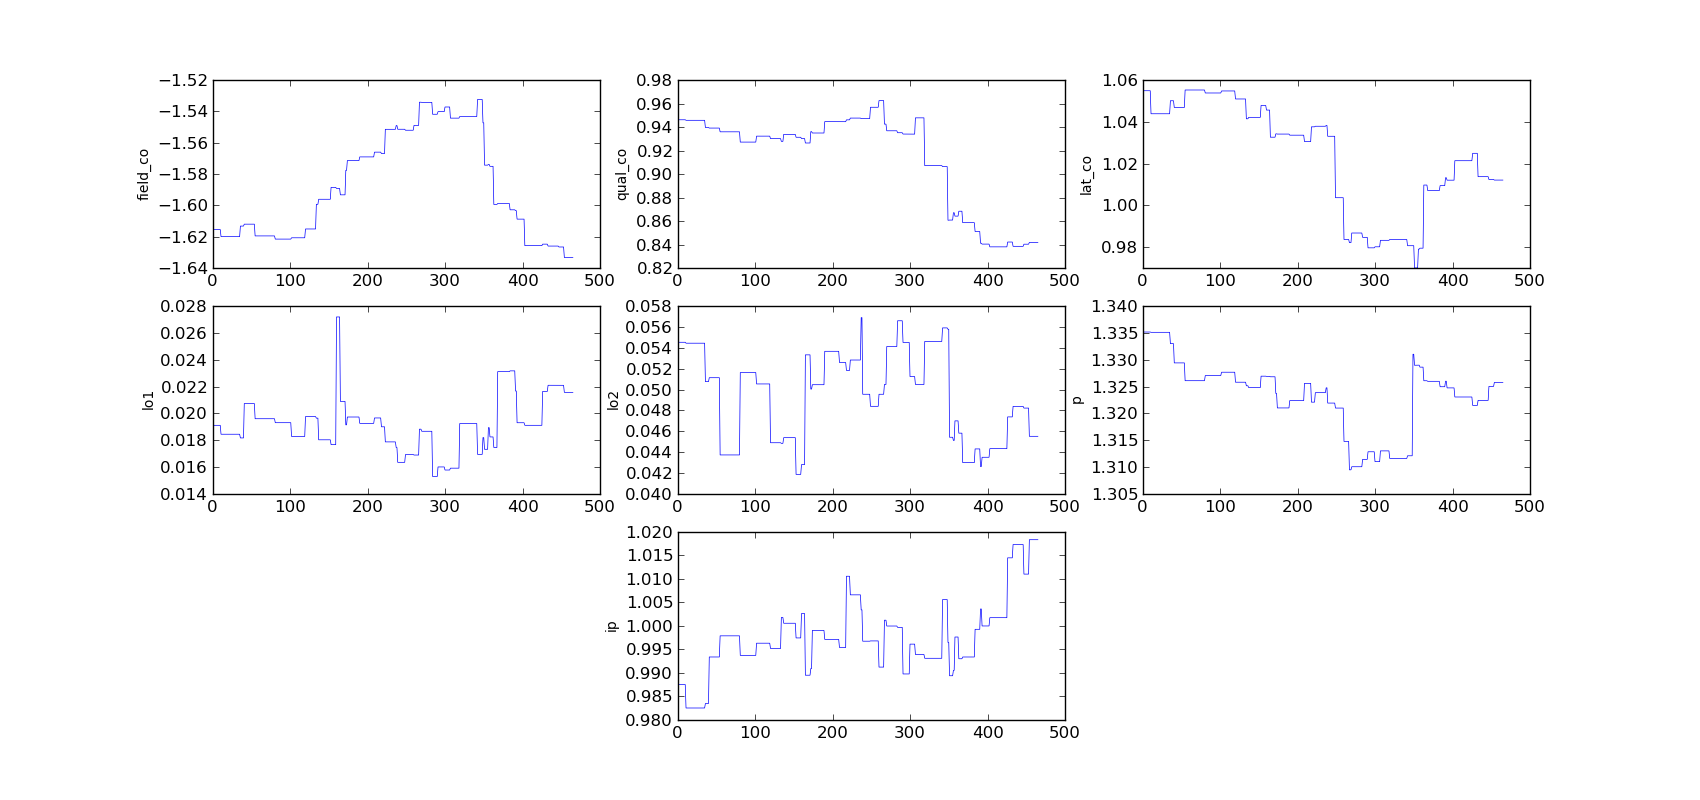
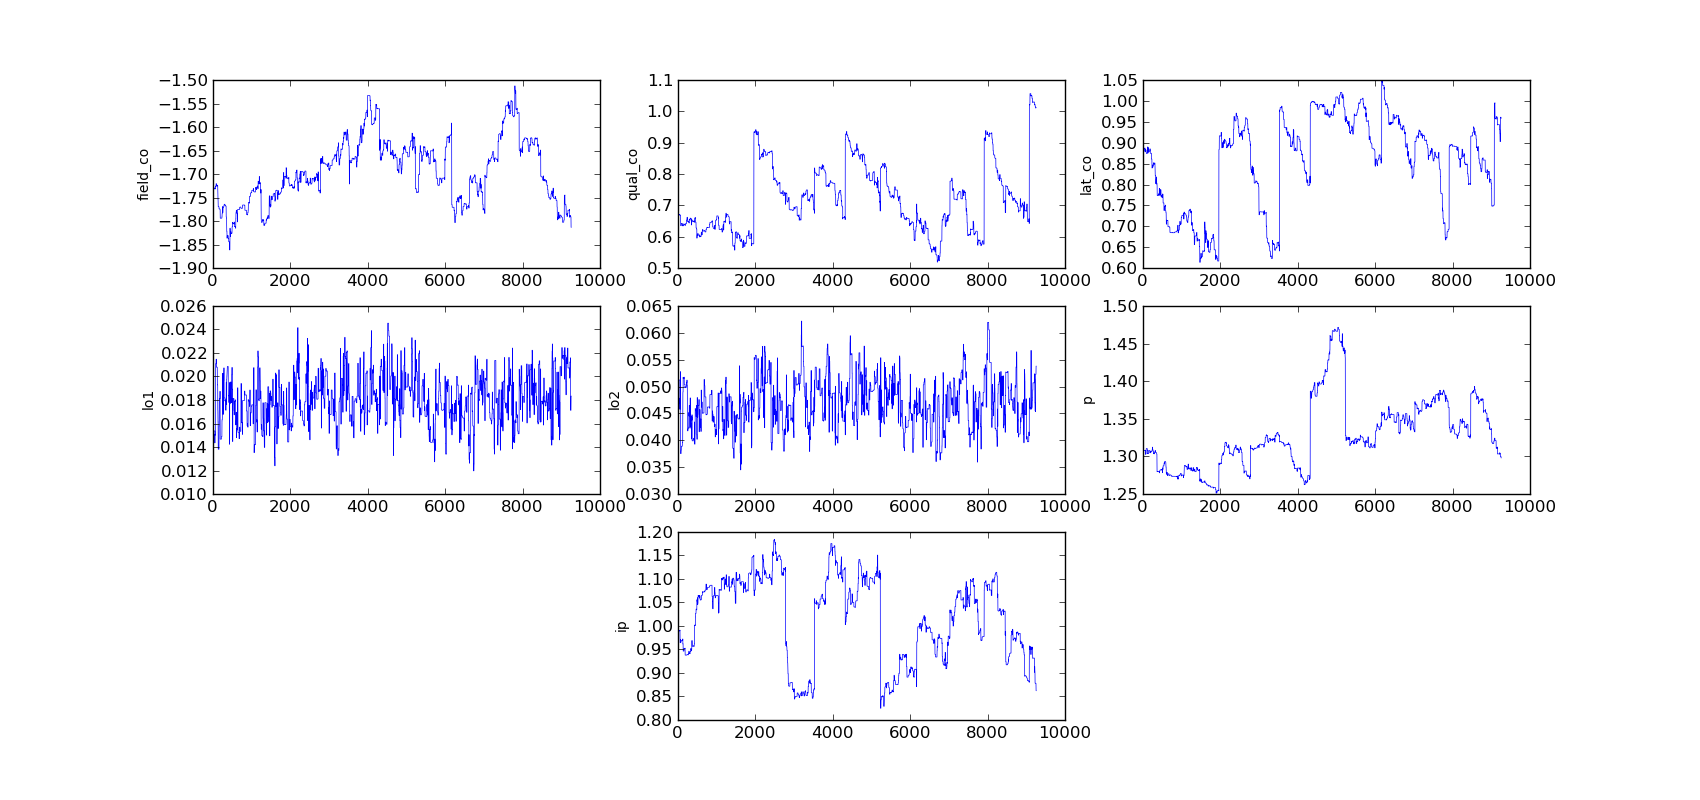
added a time trend to citing prob, and also insulated jump_size mistakes

diff --git a/est_loop.py b/est_loop.py
@@ -47,14 +47,21 @@ def update_cits(cit_params, rnd):
     # updates cit parameters
 
     # get user jump size
-    j = pd.read_csv('jump_size.csv').set_index('block')
-    s_alp = list(j.loc['cit_alp'])[0]
-    s_bet = list(j.loc['cit_bet'])[0]
-    s_gam0 = list(j.loc['cit_gam0'])[0]
-    s_gam1 = list(j.loc['cit_gam1'])[0]
+    try:
+        j = pd.read_csv('jump_size.csv').set_index('block')
+        s_alp = list(j.loc['cit_alp'])[0]
+        s_alpy = list(j.loc['cit_alpy'])[0]
+        s_bet = list(j.loc['cit_bet'])[0]
+        s_gam0 = list(j.loc['cit_gam0'])[0]
+        s_gam1 = list(j.loc['cit_gam1'])[0]
+    except Exception as e:
+        print e
+        s_alp, s_alpy, s_bet, s_gam0, s_gam1\
+                = 1, 1, 1, 1, 1
 
     [alp, gam, bet] = cit_params
-    alp = alp + random.gauss(0,rnd['alpha'] * s_alp)
+    alp[0] = alp[0] + random.gauss(0,rnd['alpha'] * s_alp)
+    alp[1] = alp[1] + random.gauss(0,rnd['alphay'] * s_alpy)
     bet = bet + random.gauss(0,rnd['bet'] * s_bet)
     gam[0] = norm.cdf(norm.ppf(gam[0], 0, 1) +
                       random.gauss(0,rnd['gam_0'] * s_gam0), 0, 1)
@@ -67,14 +74,19 @@ def update_movs(big_mov_params, ip, rnd):
     # updates mov parameters
 
     # get user jump size
-    j = pd.read_csv('jump_size.csv').set_index('block')
-    slo1 = list(j.loc['mov_lo1'])[0]
-    slo2 = list(j.loc['mov_lo2'])[0]
-    sp = list(j.loc['mov_p'])[0]
-    sq = list(j.loc['mov_q'])[0]
-    sf = list(j.loc['mov_f'])[0]
-    sl = list(j.loc['mov_l'])[0]
-    sip = list(j.loc['mov_ip'])[0]
+    try:
+        j = pd.read_csv('jump_size.csv').set_index('block')
+        slo1 = list(j.loc['mov_lo1'])[0]
+        slo2 = list(j.loc['mov_lo2'])[0]
+        sp = list(j.loc['mov_p'])[0]
+        sq = list(j.loc['mov_q'])[0]
+        sf = list(j.loc['mov_f'])[0]
+        sl = list(j.loc['mov_l'])[0]
+        sip = list(j.loc['mov_ip'])[0]
+    except Exception as e:
+        print e
+        slo1, slo2, sp, sq, sf, sl, sip\
+                = 1, 1, 1, 1, 1, 1, 1
 
     [mov_params, lam, p] = big_mov_params
     lam[0] = lam[0] + random.gauss(0, rnd['lo1'] * slo1)
@@ -171,10 +183,14 @@ def calc_lp_lik(cit_params, big_mov_params,
     # updates lp and recalcs lik
 
     # get user jump size
-    jump = pd.read_csv('jump_size.csv').set_index('block')
-    s0 = list(jump.loc['lp0'])[0]
-    s1 = list(jump.loc['lp1'])[0]
-    s2 = list(jump.loc['lp2'])[0]
+    try:
+        jump = pd.read_csv('jump_size.csv').set_index('block')
+        s0 = list(jump.loc['lp0'])[0]
+        s1 = list(jump.loc['lp1'])[0]
+        s2 = list(jump.loc['lp2'])[0]
+    except Exception as e:
+        print e
+        s0, s1, s2 = 1, 1, 1
 
     # COPY OLD DATA
     cit_params_u = deepcopy(cit_params)
@@ -315,7 +331,7 @@ def est_loop(lik, lik_pieces, big_mov_params, cit_params,
 def write_me(cit_params, big_mov_params, lp, ip, out_writer, out_file):
     # writes to file
     [movparams, lam, p] = big_mov_params
-    out_writer.writerow([cit_params[0]] + cit_params[1] + [cit_params[2]]
+    out_writer.writerow(cit_params[0] + cit_params[1] + [cit_params[2]]
             + list(movparams) + lam + [p] + lp + [ip])
     out_file.flush()
     return 0

diff --git a/adapt.py b/adapt.py
@@ -11,7 +11,7 @@ def get_cov(snip, k, block_name):
     if block_name == 'cit' or block_name == 'loc':
         b = 0.001  # small number
         s = 2.38 ** 2 # optimal scaling factor 
-        col_names = ['alpha', 'gam_0', 'gam_1',
+        col_names = ['alpha', 'alphay', 'gam_0', 'gam_1',
                      'bet', 'field_co', 'lat_co',
                      'qual_co', 'lo1', 'lo2', 'p',
                      'lp1', 'lp2', 'lp3', 'ip']
@@ -25,7 +25,7 @@ def get_cov(snip, k, block_name):
             
         # CIT BLOCK
         if block_name == 'cit':
-            citdat = dat[['alpha', 'gam_0', 'gam_1', 'bet']]
+            citdat = dat[['alpha', 'alphay', 'gam_0', 'gam_1', 'bet']]
             citdat['gam_0'] = citdat['gam_0'].apply(lambda x: norm.ppf(x, 0, 1))
             citdat['gam_1'] = citdat['gam_1'].apply(lambda x: norm.ppf(x, 0, 1))
 
@@ -40,7 +40,7 @@ def get_cov(snip, k, block_name):
             else:
                 cit_rnd = (1 - b) * mvn(np.zeros(d), cit_cov * s / float(d))\
                         + b * mvn(np.zeros(d), np.identity(d) * s / float(d))
-            cit_rnd = pd.Series(cit_rnd, index=['alpha', 'gam_0', 'gam_1', 'bet'])
+            cit_rnd = pd.Series(cit_rnd, index=['alpha', 'alphay', 'gam_0', 'gam_1', 'bet'])
             print cit_rnd
             loc_rnd = 0
         else:

diff --git a/cit_defs.py b/cit_defs.py
@@ -16,7 +16,8 @@ def tree():
 
 def no_cit_inner(row, alp, bet, dep_year, lat, qp):
     k_lev = dep_year.at[row['dep'],row['date']-1]
-    num = alp + bet * k_lev + qp[lat]
+    num = alp[0] + alp[1] * row['date']\
+            + bet * k_lev + qp[lat]
     item = 1 - math.exp(num) / (1 + math.exp(num))
     return item
 
@@ -50,7 +51,7 @@ def fc_lik(alp, bet, gam, dep_aut,
 
     lin1 = dep_aut.iloc[-1]
     pgam = gam[lin1['isField']]
-    num = alp + qp[lat]\
+    num = alp[0] + alp[1] * lin1['date'] + qp[lat]\
             + bet * dep_year.at[lin1['dep'],lin1['date']-1]
     item = math.exp(num) / (1 + math.exp(num))
     return item

diff --git a/from_ham/make_plots.py b/from_ham/make_plots.py
@@ -38,9 +38,9 @@ mkplt(p[' ip'],           3, 3, 8, 'ip'        , 0)
 plt.savefig('params2_plots_lat.png', bbox_inches=0)
 
 fig3 = plt.figure(figsize=(17, 8), dpi=80)
-mkplt(p[' lat_prob1'],    3, 1, 1, 'lat_prob1' , 0)
-mkplt(p[' lat_prob2'],    3, 1, 2, 'lat_prob2' , 0)
-mkplt(p[' lat_prob3'],    3, 1, 3, 'lat_prob3' , 0)
+mkplt(p[' lat_prob1'][::8],    3, 1, 1, 'lat_prob1' , 0)
+mkplt(p[' lat_prob2'][::8],    3, 1, 2, 'lat_prob2' , 0)
+mkplt(p[' lat_prob3'][::8],    3, 1, 3, 'lat_prob3' , 0)
 plt.savefig('params3_plots_lat.png', bbox_inches=0)
 
 plt.show()

diff --git a/run_discrete.py b/run_discrete.py
@@ -12,7 +12,7 @@ def tree():
 if __name__ == '__main__':
     """reads in parameters and calls discrete.py, main estimation"""
 
-    alp = -1.6749907947388878
+    alp = [-1.6749907947388878, 0]
     bet = 10.102329748914448
     gam = [0.04046044427069205,0.3]
     
